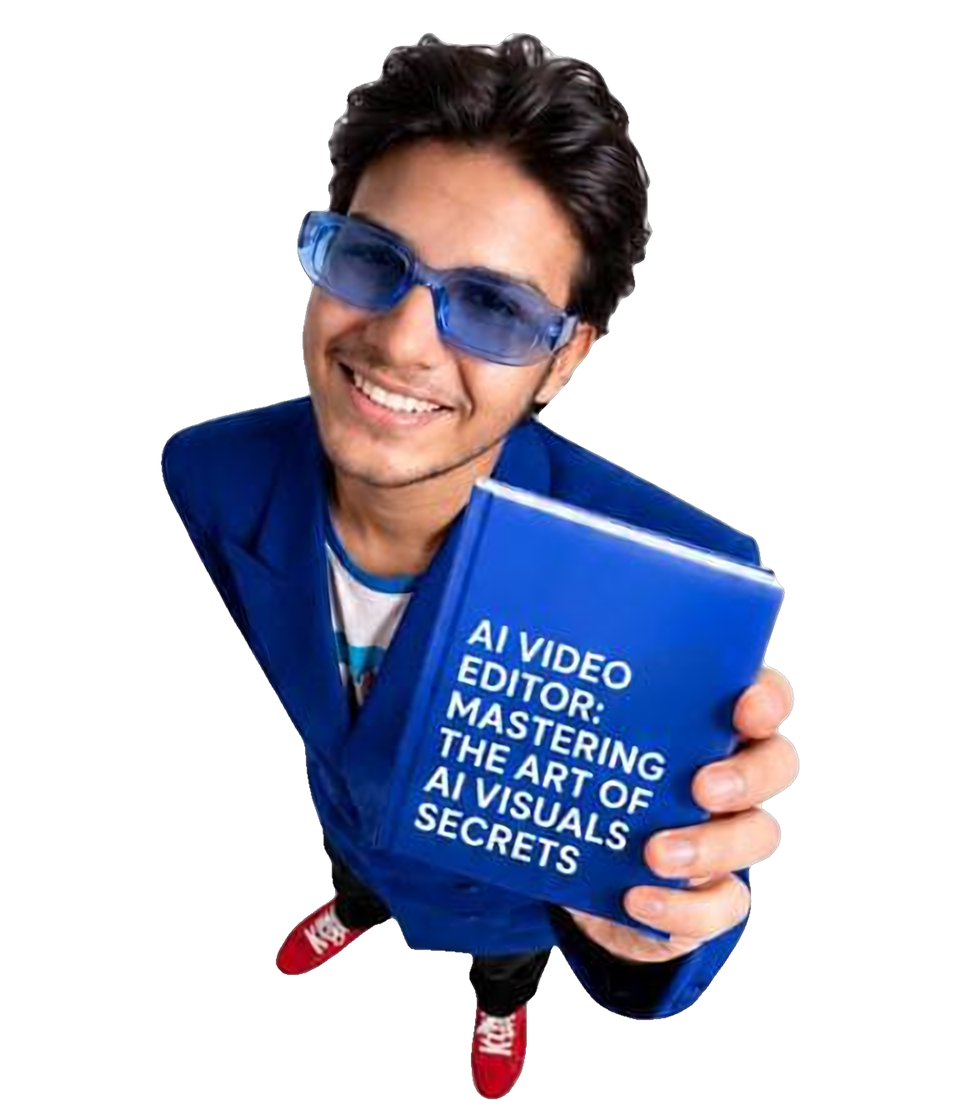
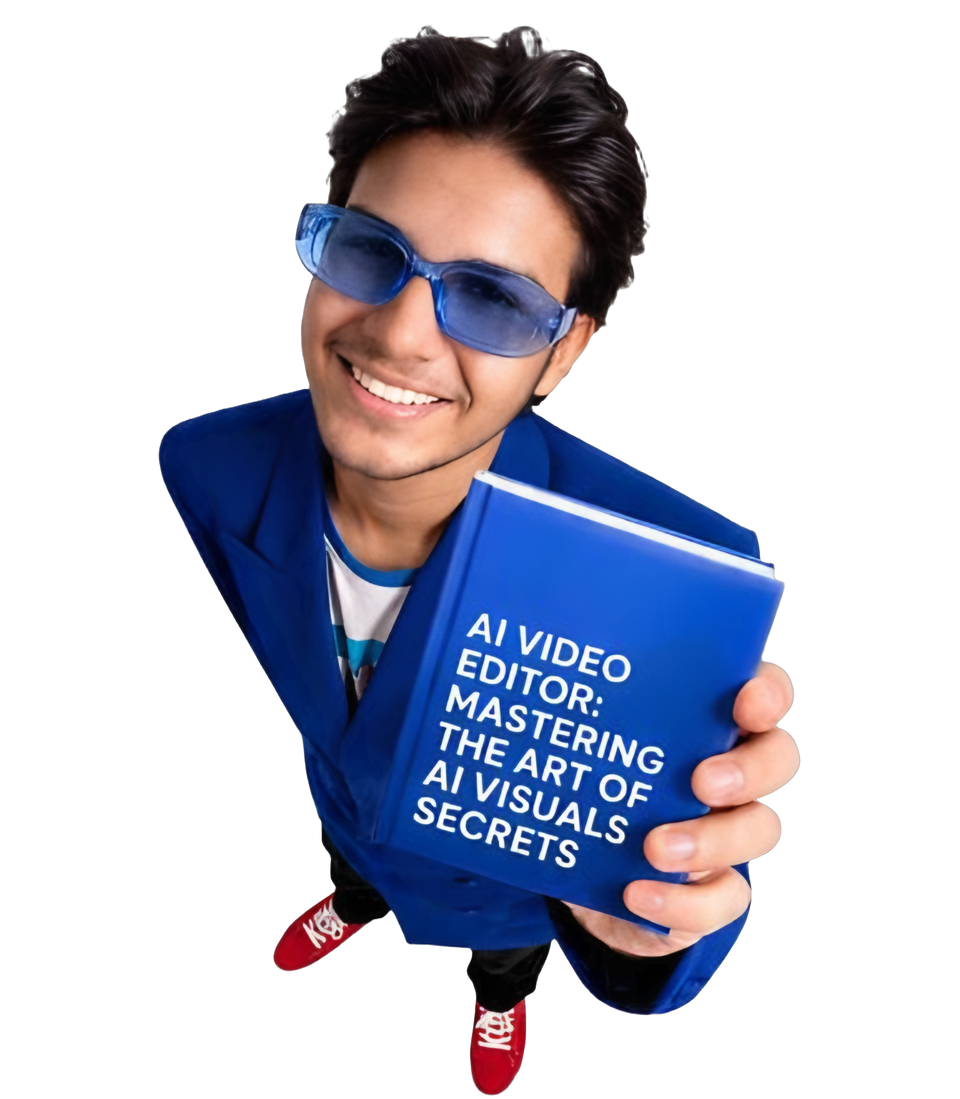
HD photo v4: Real-ESRGAN x4 + GFPGAN face, BiRefNet hair matting with white-spill removal; new OG image

diff --git a/index.html b/index.html
@@ -134,7 +134,7 @@
               <span class="portrait__vt" aria-hidden="true">AI Video Editor</span>
               <picture>
                 <source srcset="assets/img/zubair-cut.webp" type="image/webp">
-                <img class="portrait__img" data-photo src="assets/img/zubair-cut.png" width="961" height="1100" alt="Zubair Hasan in a blue suit and blue glasses, holding a book titled 'AI Video Editor — Mastering the art of AI visuals'" fetchpriority="high" decoding="async">
+                <img class="portrait__img" data-photo src="assets/img/zubair-cut.png" width="1531" height="1752" alt="Zubair Hasan in a blue suit and blue glasses, holding a book titled 'AI Video Editor — Mastering the art of AI visuals'" fetchpriority="high" decoding="async">
               </picture>
               
             </div>
@@ -246,7 +246,7 @@
         <div class="about__frame">
           <picture>
             <source srcset="assets/img/zubair-cut.webp" type="image/webp">
-            <img class="about__img" data-photo src="assets/img/zubair-cut.png" width="961" height="1100" alt="" loading="lazy" decoding="async">
+            <img class="about__img" data-photo src="assets/img/zubair-cut.png" width="1531" height="1752" alt="" loading="lazy" decoding="async">
           </picture>
           <span class="about__caption"><span data-bind="name">Zubair Hasan</span><small data-bind="location">Karachi, Pakistan</small></span>
         </div>
